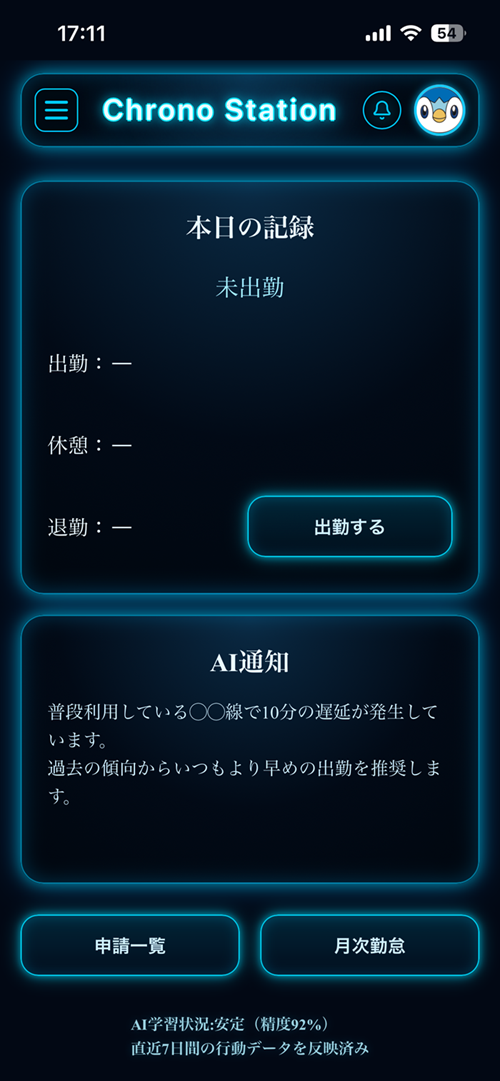
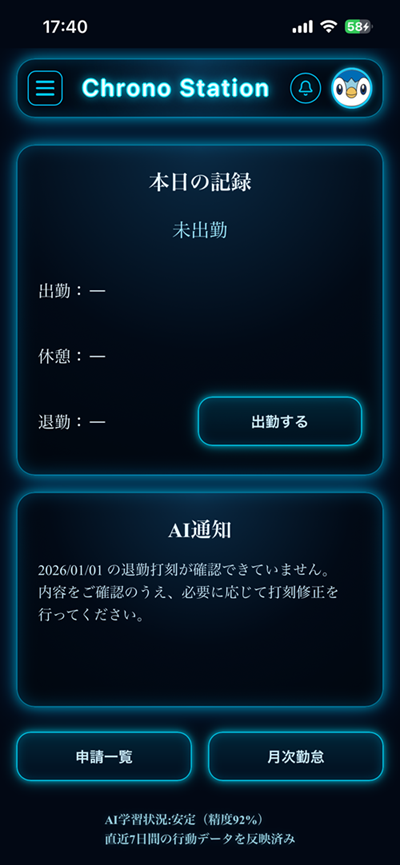
create docs

Changed region(s): [[0.09, 0.6243, 0.87, 0.7491], [0.12, 0.0, 0.21, 0.0624], [0.87, 0.0, 0.93, 0.0624]]

diff --git a/frontend/src/views/attendance/HomeView.vue b/frontend/src/views/attendance/HomeView.vue
@@ -275,8 +275,8 @@ onMounted(fetchTodayAttendance)
     <section class="card ai-card">
       <h2 class="card-title">AI通知</h2>
       <p class="ai-text">
-        普段利用している◯◯線で10分の遅延が発生しています。<br />
-        過去の傾向からいつもより早めの出勤を推奨します。
+        2026/01/01 の退勤打刻が確認できていません。<br />
+        内容をご確認のうえ、必要に応じて打刻修正を行ってください。
       </p>
     </section>
 
